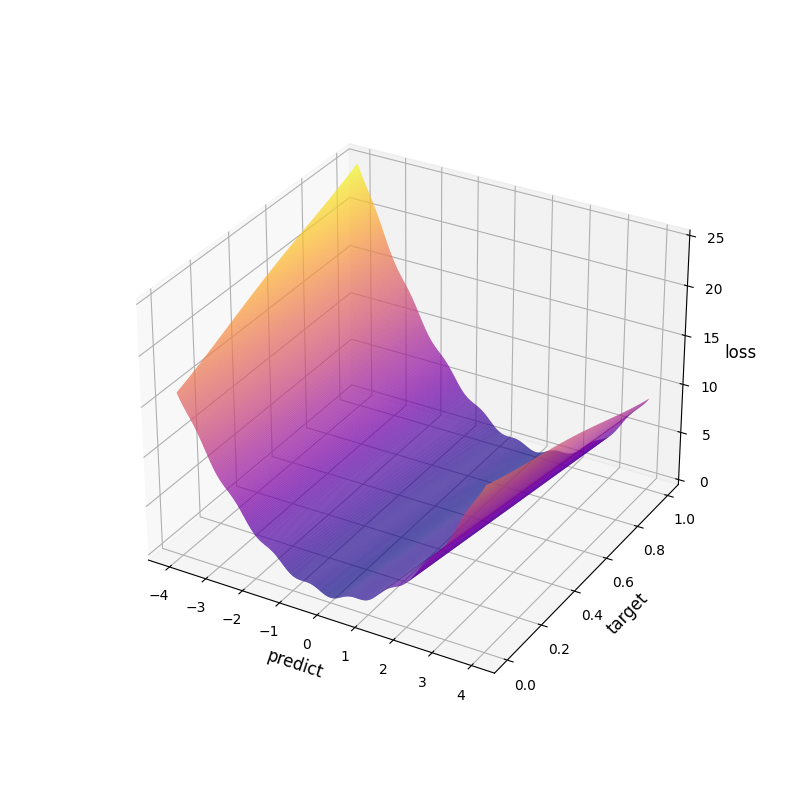
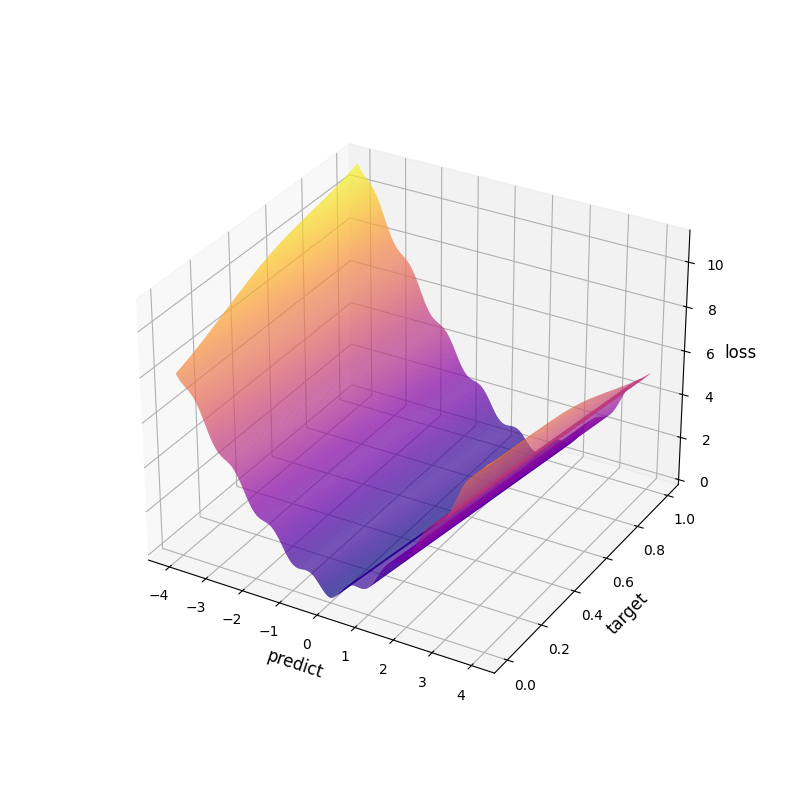
Update train

diff --git a/draw_loss_figs.py b/draw_loss_figs.py
@@ -1,27 +1,30 @@
 import matplotlib.pyplot as plt
 import numpy as np
 
+from config import CONFIG
+
 xx = np.linspace(-4, 4, 500, dtype=np.float32)
 yy = np.linspace(0, 1, 500, dtype=np.float32)
 x, y = np.meshgrid(xx, yy)
 abs_diff = np.abs(y - x)
 
+lambda_cos: float = CONFIG['train']['loss']['lambda_cos']
+exponent: float = CONFIG['train']['loss']['exponent']
+
 fig = plt.figure(figsize=(8, 8))
 ax3 = plt.axes(projection='3d')
-lambda_cos = 0.25
-z = np.square(abs_diff) - (np.cos(abs_diff * (np.pi * 2)) - 1) * lambda_cos
+z = np.power(abs_diff, exponent) - (np.cos(abs_diff * (np.pi * 2)) - 1) * lambda_cos
 ax3.plot_surface(x, y, z, rstride=1, cstride=1, cmap='plasma')
 ax3.set_xlabel('predict', fontsize='large')
 ax3.set_ylabel('target', fontsize='large')
 ax3.set_zlabel('loss', fontsize='large')
-fig.savefig("This-RotationLoss.png")
+fig.savefig("figures/This-RotationLoss.png")
 
 fig = plt.figure(figsize=(8, 8))
 ax3 = plt.axes(projection='3d')
-lambda_cos = 0.25
 z = 0.5 - np.abs(abs_diff - 0.5)
 ax3.plot_surface(x, y, z, rstride=1, cstride=1, cmap='plasma')
 ax3.set_xlabel('predict', fontsize='large')
 ax3.set_ylabel('target', fontsize='large')
 ax3.set_zlabel('loss', fontsize='large')
-fig.savefig("RotNet-angle_error_regression.png")
+fig.savefig("figures/RotNet-angle_error_regression.png")

diff --git a/train.py b/train.py
@@ -16,6 +16,10 @@ batch_size: int = CONFIG['train']['batch_size']
 epoches: int = CONFIG['train']['epoches']
 steps: int = CONFIG['train']['steps']
 lr: float = CONFIG['train']['lr']
+lambda_cos: float = CONFIG['train']['loss']['lambda_cos']
+exponent: float = CONFIG['train']['loss']['exponent']
+t_0: float = CONFIG['train']['lr_scheduler']['T_0']
+t_mult: float = CONFIG['train']['lr_scheduler']['T_mult']
 root = Path(CONFIG['dataset']['root'])
 
 start_time = time.time()
@@ -33,8 +37,8 @@ val_dataloader = get_dataloader("val", batch_size=batch_size, trans=trans)
 model = RotationNet()
 model = model.to(device)
 optmizer = torch.optim.Adam(model.parameters(), lr=lr)
-scheduler = torch.optim.lr_scheduler.CosineAnnealingWarmRestarts(optmizer, T_0=4, T_mult=2, eta_min=lr / 10e3)
-criterion = RotationLoss(lambda_cos=0.25)
+scheduler = torch.optim.lr_scheduler.CosineAnnealingWarmRestarts(optmizer, T_0=t_0, T_mult=t_mult, eta_min=lr / 10e3)
+criterion = RotationLoss()
 eval_criterion = DistanceBetweenAngles()
 
 train_loss_vec = np.empty(epoches, dtype=np.float64)

diff --git a/loss.py b/loss.py
@@ -28,13 +28,14 @@ class RotationLoss(nn.Module):
     MSELoss的优化版本 加入余弦修正来缩小旋转系数0和1之间的距离
     """
 
-    def __init__(self, lambda_cos: float = 0.25) -> None:
+    def __init__(self, lambda_cos: float = 0.24, exponent: float = 2.0) -> None:
         super(RotationLoss, self).__init__()
         self.lambda_cos = lambda_cos
+        self.exponent = exponent
 
     def forward(self, predict: torch.Tensor, target: torch.Tensor) -> torch.Tensor:
         diff = predict - target
-        loss_tensor = ((diff * (torch.pi * 2)).cos_() - 1) * (-self.lambda_cos) + diff.square_()
+        loss_tensor = ((diff * (torch.pi * 2)).cos_() - 1) * (-self.lambda_cos) + diff.pow_(self.exponent)
         loss = loss_tensor.mean()
         return loss
 

diff --git a/test.py b/test.py
@@ -33,7 +33,7 @@ if __name__ == "__main__":
         model.load_state_dict(torch.load(str(model_path), map_location=device))
         model = model.to(device)
         model.eval()
-        img = Image.open("datasets/Landscape-Dataset/pytorch/test/724.jpg")
+        img = Image.open("test.jpg")
 
         img_tensor: torch.Tensor = trans(img).unsqueeze_(0).to(device)
         predict: torch.Tensor = model(img_tensor)

diff --git a/model.py b/model.py
@@ -17,7 +17,7 @@ class RotationNet(nn.Module):
 
         super(RotationNet, self).__init__()
 
-        self.backbone = models.regnet_y_1_6gf(pretrained=train)
+        self.backbone = models.regnet_x_1_6gf(pretrained=train)
 
         fc_channels = self.backbone.fc.in_features
         self.backbone.fc = nn.Linear(fc_channels, 1)

diff --git a/README.md b/README.md
@@ -58,7 +58,7 @@ python test.py
 
 + 现有的旋图验证码破解方法大多基于[`RotNet (ICLR2018)`](https://arxiv.org/abs/1803.07728)，其backbone为`ResNet50`，将角度预测视作360分类问题，并计算交叉熵损失，本项目的`RotationNet`是对`RotNet`的简单改进
 
-+ backbone为[`regnet (CVPR2020)`](https://arxiv.org/abs/2003.13678)的`RegNetY 1.6GFLOPs`
++ backbone为[`regnet (CVPR2020)`](https://arxiv.org/abs/2003.13678)的`RegNetX 1.6GFLOPs`
 
 + `RotNet`中使用的交叉熵损失会令`1°`和`359°`之间的度量距离接近一个类似`358°`的较大值，这显然是一个违背常识的结果，它们之间的度量距离应当是一个类似`2°`的极小值。而`RotNet`仓库（并未写入论文）给出的[`angle_error_regression`](https://github.com/d4nst/RotNet/blob/a56ea59818bbdd76d4dd8d83b8bbbaae6a802310/utils.py#L30-L36)损失函数效果较差，因为该损失函数在应对离群值时梯度方向存在明显问题，你可以在后续的损失函数图像比对中轻松看出这一点
 
@@ -72,8 +72,8 @@ python test.py
 
 - angle_error_regression
 
-![RotNet-angle_error_regression](https://user-images.githubusercontent.com/48282276/172344856-e3904a62-a099-40af-86cd-6174a6bf5e3f.png)
+![RotNet-angle_error_regression](https://github.com/Starry-OvO/Rotate-Captcha-Crack/blob/master/figures/RotNet-angle_error_regression.png)
 
 - RotationLoss
 
-![This-RotationLoss](https://user-images.githubusercontent.com/48282276/172344938-fd2f5991-152a-49b0-a0bd-5a7f6402c947.png)
+![This-RotationLoss](https://github.com/Starry-OvO/Rotate-Captcha-Crack/blob/master/figures/This-RotationLoss.png)
